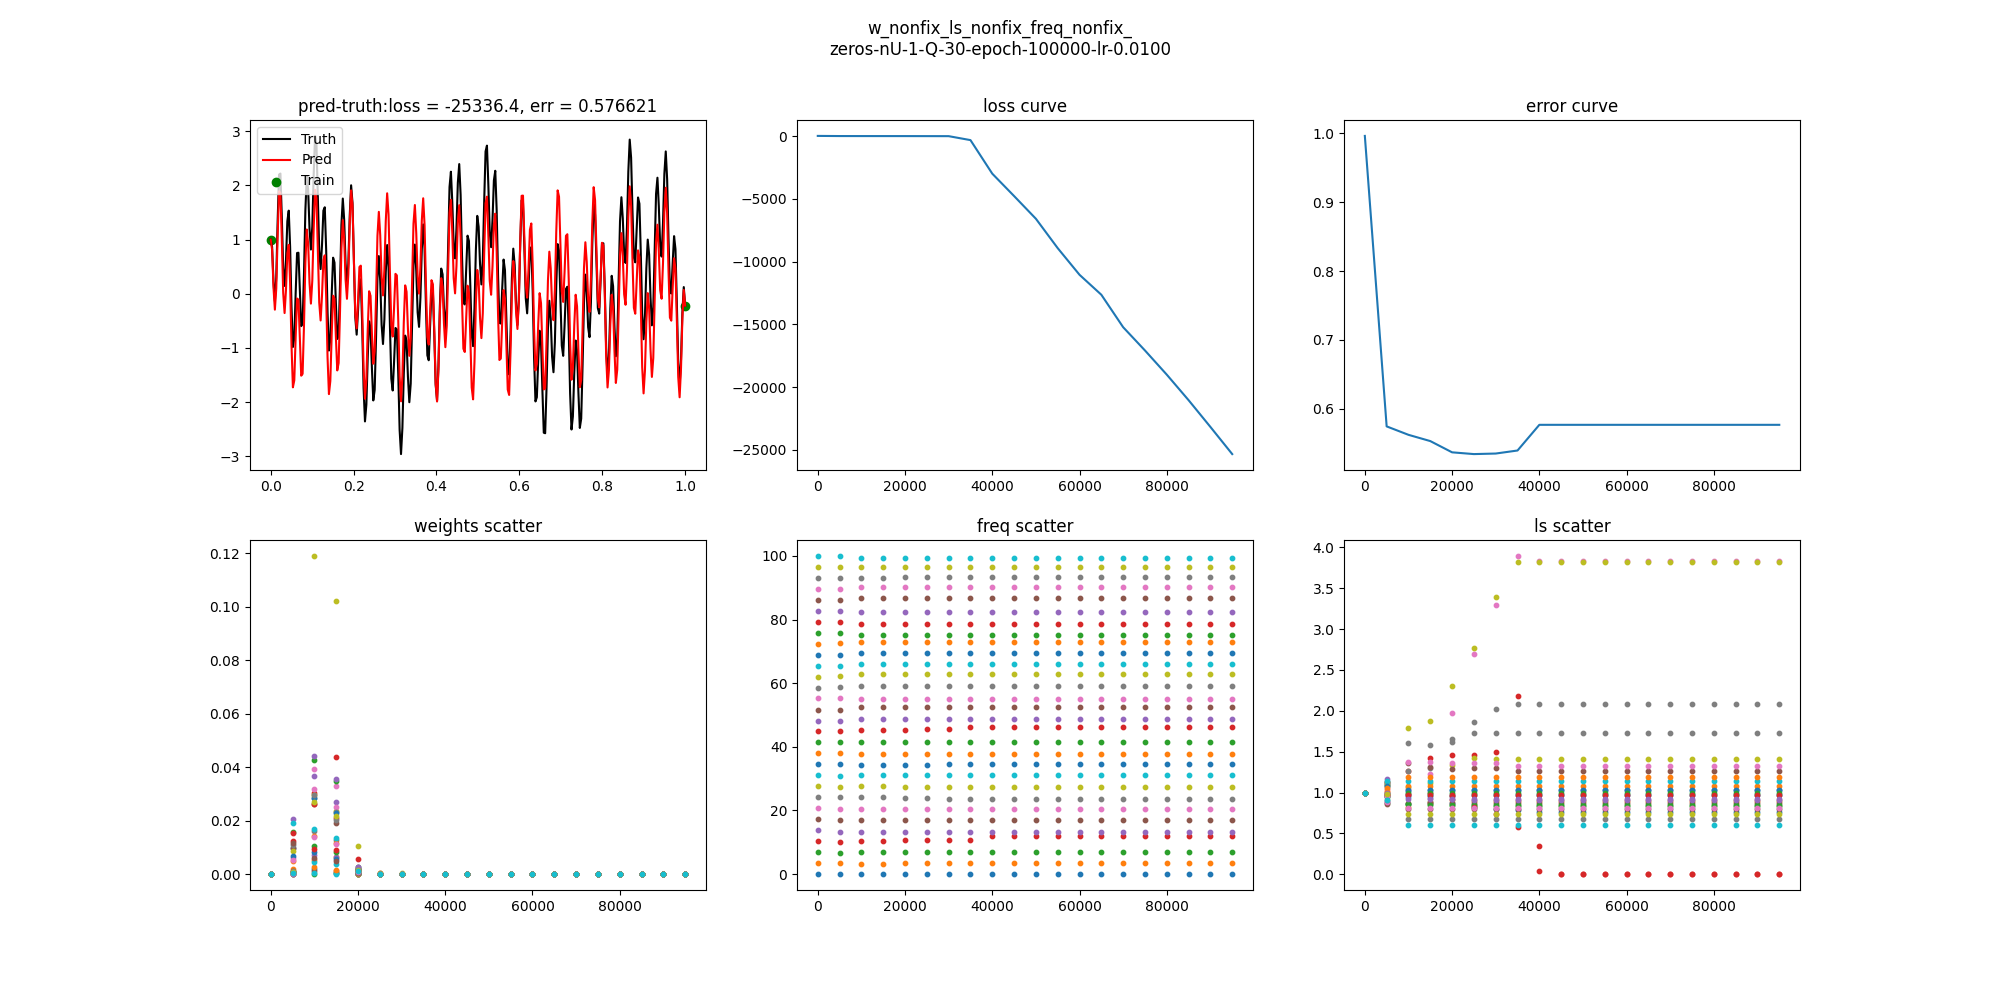
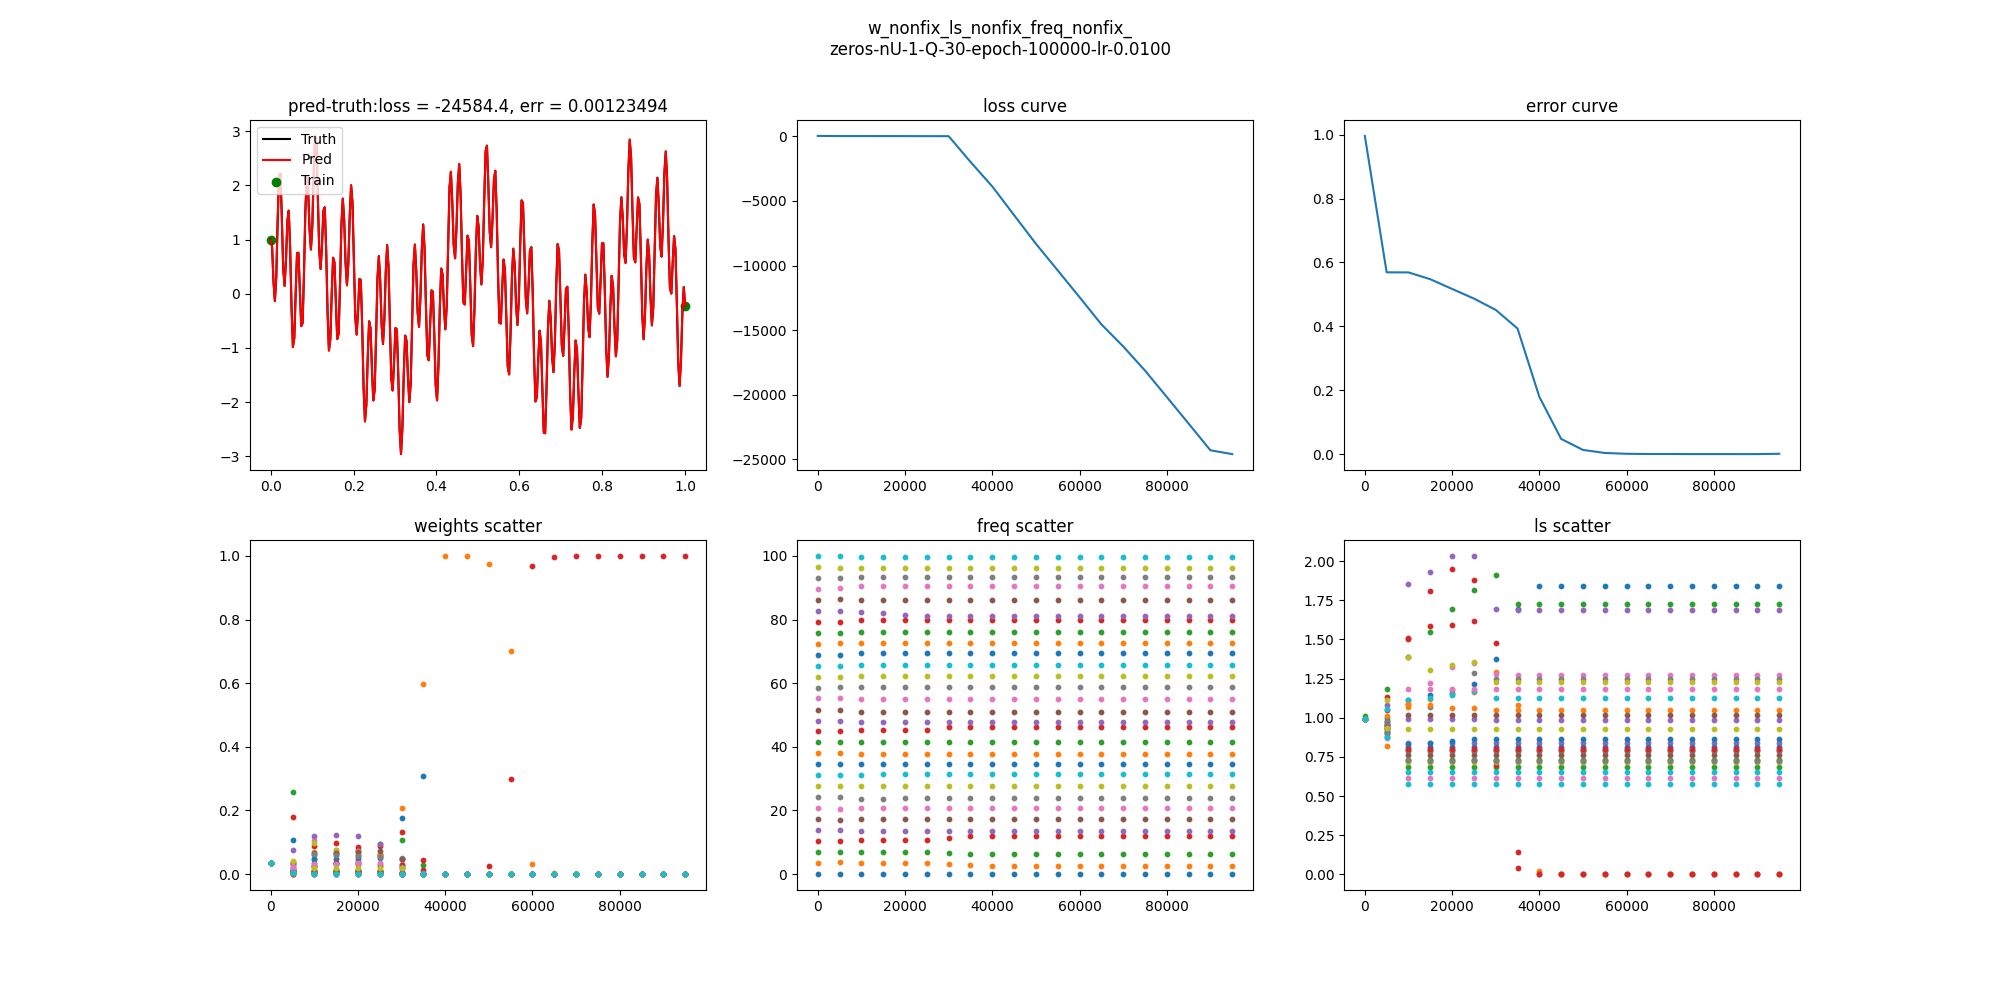
HS results in very small weights and good result

diff --git a/code_fang/poisson1d_sparse.py b/code_fang/poisson1d_sparse.py
@@ -70,6 +70,10 @@ class GPRLatent:
         self.ONE = 1.0
         self.HALF = 0.5
 
+        self.K_mean = 0.0
+        self.Kinv_u_mean = 0.0
+        self.Kmn_mean = 0.0
+
     def KL_term(self, mu, L, K):
         Ltril = jnp.tril(L)
         hh_expt = jnp.matmul(Ltril, Ltril.T) + jnp.matmul(mu, mu.T)
@@ -146,7 +150,7 @@ class GPRLatent:
         params = optax.apply_updates(params, updates)
         return params, opt_state, loss
 
-    @partial(jit, static_argnums=(0,))
+    # @partial(jit, static_argnums=(0,))
     def preds(self, params, Xte):
         ker_paras = params['kernel_paras']
         u = params['u']
@@ -157,6 +161,7 @@ class GPRLatent:
         X1_p = x_p.flatten()
         X2_p = jnp.transpose(x_p).flatten()
         K = self.kernel_matrix.get_kernel_matrix(X1_p, X2_p, ker_paras)
+
         Kinv_u = jnp.linalg.solve(K, u)
 
         N_te = Xte.shape[0]
@@ -165,8 +170,9 @@ class GPRLatent:
         X1_p2 = x_p11.flatten()
         X2_p2 = jnp.transpose(x_p22).flatten()
         Kmn = vmap(self.cov_func.kappa, (0, 0, None))(X1_p2.flatten(), X2_p2.flatten(), ker_paras).reshape(N_te, self.N_con)
+        
         preds = jnp.matmul(Kmn, Kinv_u)
-        return preds
+        return preds, Kmn, Kinv_u, K
 
     def train(self, nepoch):
         key = jax.random.PRNGKey(0)
@@ -183,7 +189,9 @@ class GPRLatent:
             "kernel_paras": 
             {
             "u_v": np.array([0.0]),
+            # "u_v": np.log(0.01),
             "ln_s_v": np.array([0.0]),
+            # "ln_s_v": np.log(0.01),
             'M_mu': np.zeros((Q * 2, 1)),
             'M_U': np.eye(Q * 2),
              'log-ls': np.zeros(Q), 
@@ -213,31 +221,76 @@ class GPRLatent:
             # _tau_p, _v_p = self.update_aux(params['kernel_paras'])
 
             params, opt_state, loss = self.step(params, opt_state, sub_key)
-            #if i % 10 == 0 or i >= 2000:
-
-
+            
             # evluating the error with frequency epoch/20, store the loss and error in a list
 
             if i % (nepoch/20) == 0:
 
-                preds = self.preds(params, self.Xte)
+                preds, Kmn, Kinv_u, K = self.preds(params, self.Xte)
                 err = jnp.linalg.norm(preds.reshape(-1) - self.yte.reshape(-1))/jnp.linalg.norm(self.yte.reshape(-1))
+                
+                
+                
                 if True or err < min_err:
                     if err < min_err:
                         min_err = err
                     print('loss = %g'%loss)
                     print("It ", i, '  loss = %g '%loss ," Relative L2 error", err)
 
+                print('Kmn.mean:', Kmn.mean())
+                print('K.mean:', K.mean())
+                
+                print('Kinv_u.mean:', Kinv_u.mean())
+                print('K.trace:', jnp.trace(K))
+
+
+                # u_v = params['kernel_paras']['u_v']
+                # M_mu = params['kernel_paras']['M_mu']
+                # s_M = M_mu
+                # s_tau = jnp.exp(s_M[self.num:, 0]).reshape(1, -1)
+                # s_w = s_M[:self.num, ].reshape(1, -1)
+                # s_v = jnp.exp(u_v)
+                # weights = (s_tau * s_v* s_w**2).reshape(-1)
+                # weights = (s_tau**0.5  * s_v**0.5 * s_w).reshape(-1)
+
+                _, sub_key1 = jax.random.split(key)
+                _, sub_key2 = jax.random.split(key)
                 u_v = params['kernel_paras']['u_v']
+                ln_s_v = params['kernel_paras']['ln_s_v']
                 M_mu = params['kernel_paras']['M_mu']
-                s_M = M_mu
+                M_U = params['kernel_paras']['M_U']
+                L = jnp.tril(M_U)
+                s_M = M_mu + jnp.matmul(L, jax.random.normal(sub_key1, shape=(self.num * 2, 1)))
                 s_tau = jnp.exp(s_M[self.num:, 0]).reshape(1, -1)
                 s_w = s_M[:self.num, ].reshape(1, -1)
-                s_v = jnp.exp(u_v)
-                weights = s_tau * s_v* s_w**2
-                weights = weights.reshape(-1)    
+                s_v = jnp.exp(u_v + jax.random.normal(sub_key2, shape=(1, )) * jnp.exp(ln_s_v * 0.5))
+                weights = (s_tau  * s_v * s_w**2).reshape(-1)
 
-                print("\n selected weights ", weights[np.where(abs(weights) > 1e-3)[0]], "\n indices ", np.where(abs(weights) > 1e-3)[0])
+
+                # step by step calculation of kernel-diag(trace)
+                log_ls = params['kernel_paras']['log-ls']
+                freq = params['kernel_paras']['freq']
+
+                d = 0#zeros((self.N_con, 1)).reshape(-1)
+
+                matern = (1 + jnp.sqrt(5)*d*jnp.exp(log_ls) + 5/3*d**2*jnp.exp(log_ls)**2)*jnp.exp(-jnp.sqrt(5)*d*jnp.exp(log_ls))
+
+                cosine = jnp.cos(2*jnp.pi*d*freq)
+
+                hand_trace = (weights*matern*cosine).sum()*self.N_con
+
+                print('hand trace: ', hand_trace)
+
+                # weights = weights.reshape(-1)    
+                # weights = weights / jnp.sum(weights)
+
+                print("\n rel_weights: ", weights)
+                print('s_v: ', s_v)
+                print('s_tau: ', s_tau.reshape(-1))
+                print('s_w: ', s_w.reshape(-1))
+
+
+                print("\n selected rel_weights ", weights[np.where(abs(weights) > 1e-3)[0]], "\n indices ", np.where(abs(weights) > 1e-3)[0])
 
 
 
@@ -280,7 +333,7 @@ def test_multi_scale(trick_paras,fix_dict=
 
     # u = lambda x: jnp.sin(5*jnp.pi*x) + jnp.sin(23.7*jnp.pi*x) + jnp.cos(92.3*jnp.pi*x)
     #test points
-    M = 300
+    M = 3
     X_test = np.linspace(0, 1, num=M).reshape(-1, 1)
     Y_test = u(X_test)
     #collocation points
@@ -313,7 +366,13 @@ if __name__ == '__main__':
     trick_list = [
 
         # {'equation':'poisson1d-mix' ,'init_u_trick': init_func.zeros, 'num_u_trick': 1, 'Q': 30, 'lr': 1e-2, 'llk_weight':100.0, 'kernel' : kernels_new.Matern52_Cos_add_Matern_1d, 'nepoch': 1000},  
-        {'equation':'poisson1d-mix-sin' ,'init_u_trick': init_func.zeros, 'num_u_trick': 1, 'Q': 30, 'lr': 1e-2, 'llk_weight':100.0, 'kernel' : kernels_new.Sparse_Matern52_Cos_1d, 'nepoch': 100000,'freq_scale':100 },  
+        # {'equation':'poisson1d-mix-sin' ,'init_u_trick': init_func.zeros, 'num_u_trick': 1, 'Q': 30, 'lr': 1e-2, 'llk_weight':100.0, 'kernel' : kernels_new.Sparse_Matern52_Cos_1d, 'nepoch': 100000,'freq_scale':100 }, 
+        # {'equation':'poisson1d-x2_add_sinx' ,'init_u_trick': init_func.zeros, 'num_u_trick': 1, 'Q': 30, 'lr': 1e-2, 'llk_weight':200.0, 'kernel' : kernels_new.Sparse_Matern52_Cos_1d, 'nepoch': 100000,'freq_scale':100 },  
+        # {'equation':'poisson1d-mix-sin' ,'init_u_trick': init_func.zeros, 'num_u_trick': 1, 'Q': 30, 'lr': 1e-2, 'llk_weight':200.0, 'kernel' : kernels_new.Sparse_Matern52_Cos_1d, 'nepoch': 100000,'freq_scale':100 },
+        {'equation':'poisson1d-mix-sin' ,'init_u_trick': init_func.zeros, 'num_u_trick': 1, 'Q': 30, 'lr': 1e-2, 'llk_weight':200.0, 'kernel' : kernels_new.Sparse_Matern52_Cos_1d, 'nepoch': 100000,'freq_scale':100 },  
+        # {'equation':'poisson1d-x2_add_sinx' ,'init_u_trick': init_func.zeros, 'num_u_trick': 1, 'Q': 30, 'lr': 1e-2, 'llk_weight':100.0, 'kernel' : kernels_new.Sparse_SE_Cos_1d, 'nepoch': 100000,'freq_scale':100 },  
+        # {'equation':'poisson1d-x_time_sinx' ,'init_u_trick': init_func.zeros, 'num_u_trick': 1, 'Q': 30, 'lr': 1e-2, 'llk_weight':100.0, 'kernel' : kernels_new.Sparse_SE_Cos_1d, 'nepoch': 100000,'freq_scale':100 },  
+        # {'equation':'poisson1d-x_time_sinx' ,'init_u_trick': init_func.zeros, 'num_u_trick': 1, 'Q': 30, 'lr': 1e-2, 'llk_weight':100.0, 'kernel' : kernels_new.Sparse_Matern52_Cos_1d, 'nepoch': 100000,'freq_scale':100 },  
               
                   ]
 

diff --git a/code_fang/utils.py b/code_fang/utils.py
@@ -29,10 +29,7 @@ def make_fig_1d(model, params, log_dict):
 
         # first subplot
         plt.subplot(2, 3, 1)
-        preds = model.preds(params, model.Xte)
-        Xtr = model.X_col[model.Xind]
-
-        preds = model.preds(params, model.Xte)
+        preds,_,_,_ = model.preds(params, model.Xte)
         Xtr = model.X_col[model.Xind]
 
         plt.plot(model.Xte.flatten(), model.yte.flatten(), 'k-', label='Truth')
@@ -56,6 +53,12 @@ def make_fig_1d(model, params, log_dict):
         plt.subplot(2, 3, 4)
         for i in range(Q):
             plt.scatter(epoch_list, [w[i] for w in w_list], s=10)
+
+            # if the weight is significant, label each scatter plot with the corresponding id and freq 
+            weight = [w[i] for w in w_list][-1]
+            if weight > 1e-2:
+                plt.text(epoch_list[-1], weight, '%s-th_freq-%.1f'%(str(i),freq_list[-1][i]))
+
         plt.title('weights scatter')
 
         # fifth subplot: scatter of the freq at each test point, which store on the list freq_list, the x-axies is epoch, y-axis is the freq
@@ -68,6 +71,11 @@ def make_fig_1d(model, params, log_dict):
         plt.subplot(2, 3, 6)
         for i in range(Q):
             plt.scatter(epoch_list, [l[i] for l in ls_list], s=10)
+
+            # if the ls is significant, label each scatter plot with the corresponding id and freq
+            ls = [l[i] for l in ls_list][-1]
+            if ls > 1e-2:
+                plt.text(epoch_list[-1], ls, '%s-th_freq-%.1f'%(str(i),freq_list[-1][i]))
         plt.title('ls scatter')
 
 

diff --git a/code_fang/kernels_new.py b/code_fang/kernels_new.py
@@ -91,6 +91,8 @@ class Kernel_1d(object):
         s_w = s_M[:self.num, ].reshape(1, -1)
         s_v = jnp.exp(u_v + jax.random.normal(sub_key2, shape=(1, )) * jnp.exp(ln_s_v * 0.5))
         weights = (s_tau  * s_v * s_w**2).reshape(-1)
+        # weights = (s_tau**0.5  * s_v**0.5 * s_w).reshape(-1)
+        # weights = weights / jnp.sum(weights)
 
         log_ls = paras['log-ls']
         freq = paras['freq']
@@ -103,7 +105,7 @@ class Kernel_1d(object):
 
 class Sparse_Matern52_Cos_1d(Kernel_1d):
 
-    ''' Spaese HS_prior +  variant Specture Mixsure kernal: 
+    ''' Sparse HS_prior +  variant Specture Mixsure kernal: 
       weight x Matern52 x cosine kernel'''
 
     def __init__(self, fix_dict=None, fix_paras=None, Q=30):
@@ -124,11 +126,27 @@ class Sparse_Matern52_Cos_1d(Kernel_1d):
         return (weights*matern*cosine).sum()
 
 
+class Sparse_SE_Cos_1d(Kernel_1d):
 
+    ''' Spaese HS_prior +  variant Specture Mixsure kernal: 
+      weight x SE x cosine kernel'''
 
+    def __init__(self, fix_dict=None, fix_paras=None, Q=30):
+        super().__init__(fix_dict, fix_paras)
+        self.num = Q
 
+    @partial(jit, static_argnums=(0, ))
+    def kappa(self, x1, y1, paras):
 
+        weights,  log_ls, freq = self.make_sparse_weight(paras)
 
+        d = jnp.abs(x1-y1)
+
+        SE =jnp.exp(-d**2*jnp.exp(log_ls))
+
+        cosine = jnp.cos(2*jnp.pi*d*freq)
+
+        return (weights*SE*cosine).sum()
 
 
 class SE_Cos_1d(Kernel_1d):

diff --git a/code_fang/poisson1d.py b/code_fang/poisson1d.py
@@ -251,8 +251,8 @@ if __name__ == '__main__':
 
         # {'equation':'poisson1d-mix' ,'init_u_trick': init_func.zeros, 'num_u_trick': 1, 'Q': 30, 'lr': 1e-2, 'llk_weight':100.0, 'kernel' : kernels_new.Matern52_Cos_add_Matern_1d, 'nepoch': 1000},  
         # {'equation':'poisson1d-mix' ,'init_u_trick': init_func.zeros, 'num_u_trick': 1, 'Q': 30, 'lr': 1e-2, 'llk_weight':100.0, 'kernel' : kernels_new.Matern52_Cos_add_Matern_1d, 'nepoch': 1000},  
-        {'equation':'poisson1d-mix-sin' ,'init_u_trick': init_func.zeros, 'num_u_trick': 1, 'Q': 30, 'lr': 1e-2, 'llk_weight':100.0, 'kernel' : kernels_new.Matern52_Cos_1d, 'nepoch': 100000,'freq_scale':100 },  
-              
+        # {'equation':'poisson1d-mix-sin' ,'init_u_trick': init_func.zeros, 'num_u_trick': 1, 'Q': 30, 'lr': 1e-2, 'llk_weight':100.0, 'kernel' : kernels_new.Matern52_Cos_1d, 'nepoch': 100000,'freq_scale':100 },  
+        {'equation':'poisson1d-x_time_sinx' ,'init_u_trick': init_func.zeros, 'num_u_trick': 1, 'Q': 30, 'lr': 1e-2, 'llk_weight':100.0, 'kernel' : kernels_new.Matern52_Cos_1d, 'nepoch': 10000,'freq_scale':100 },  
                   ]
 
     for trick_paras in trick_list:
